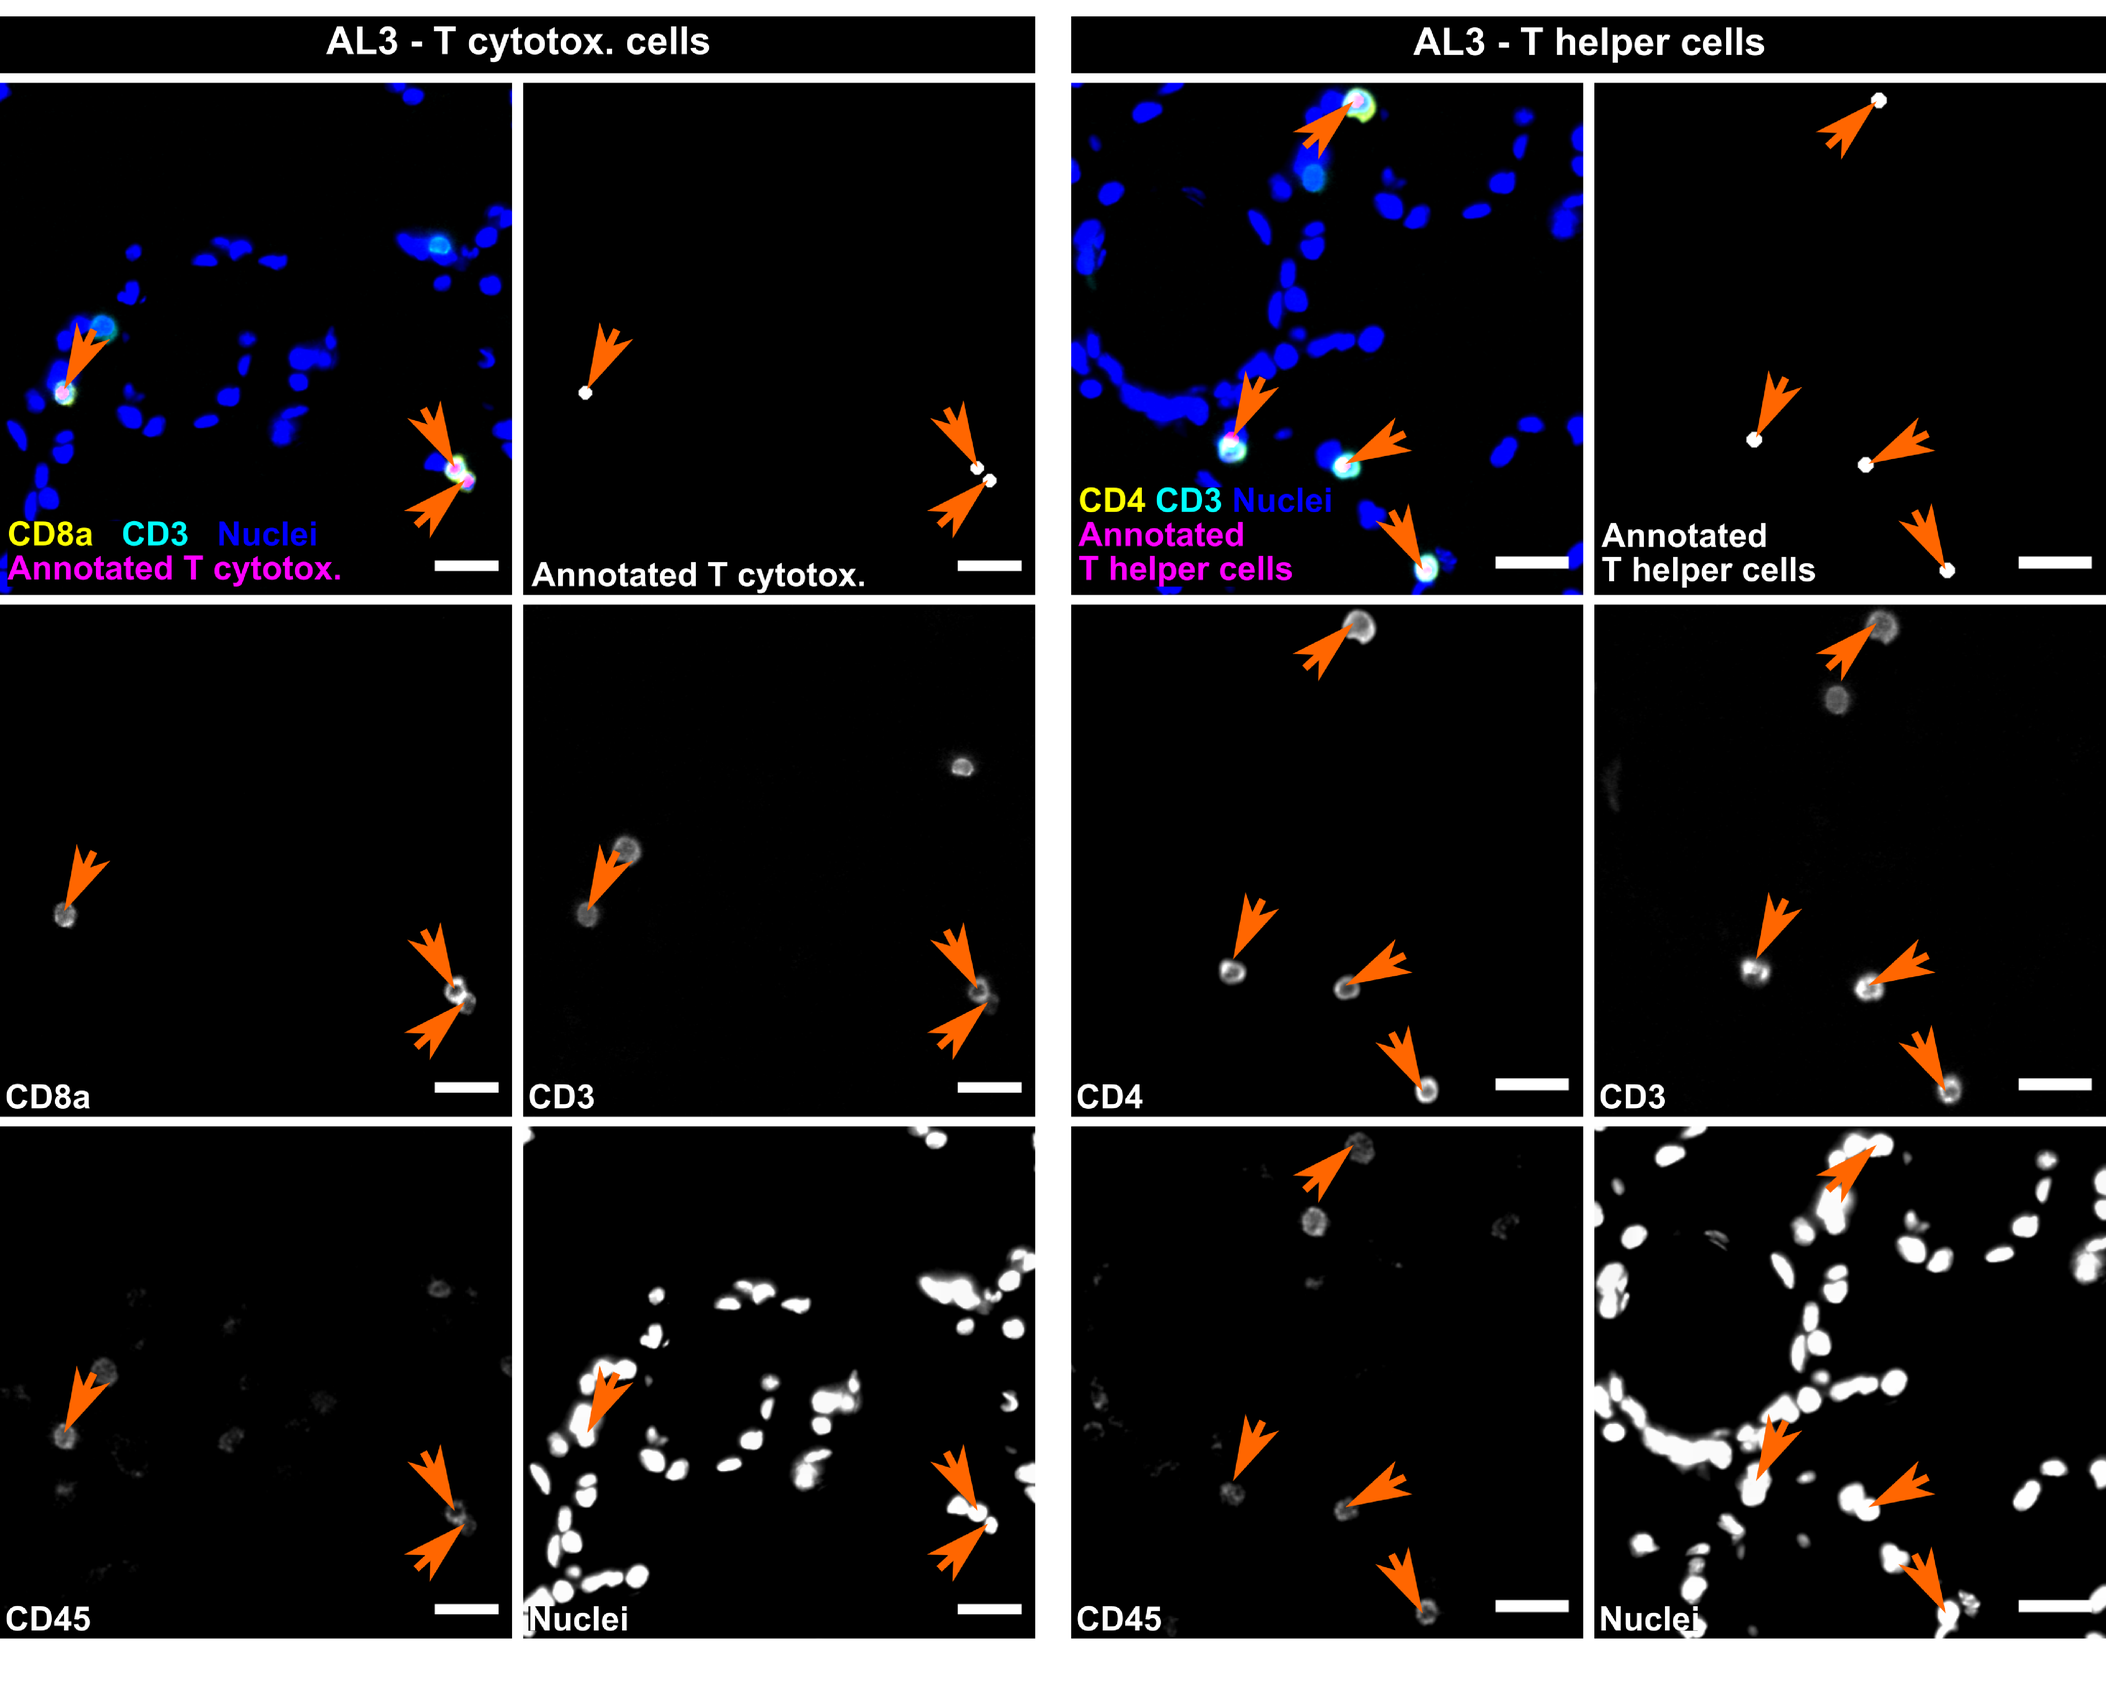
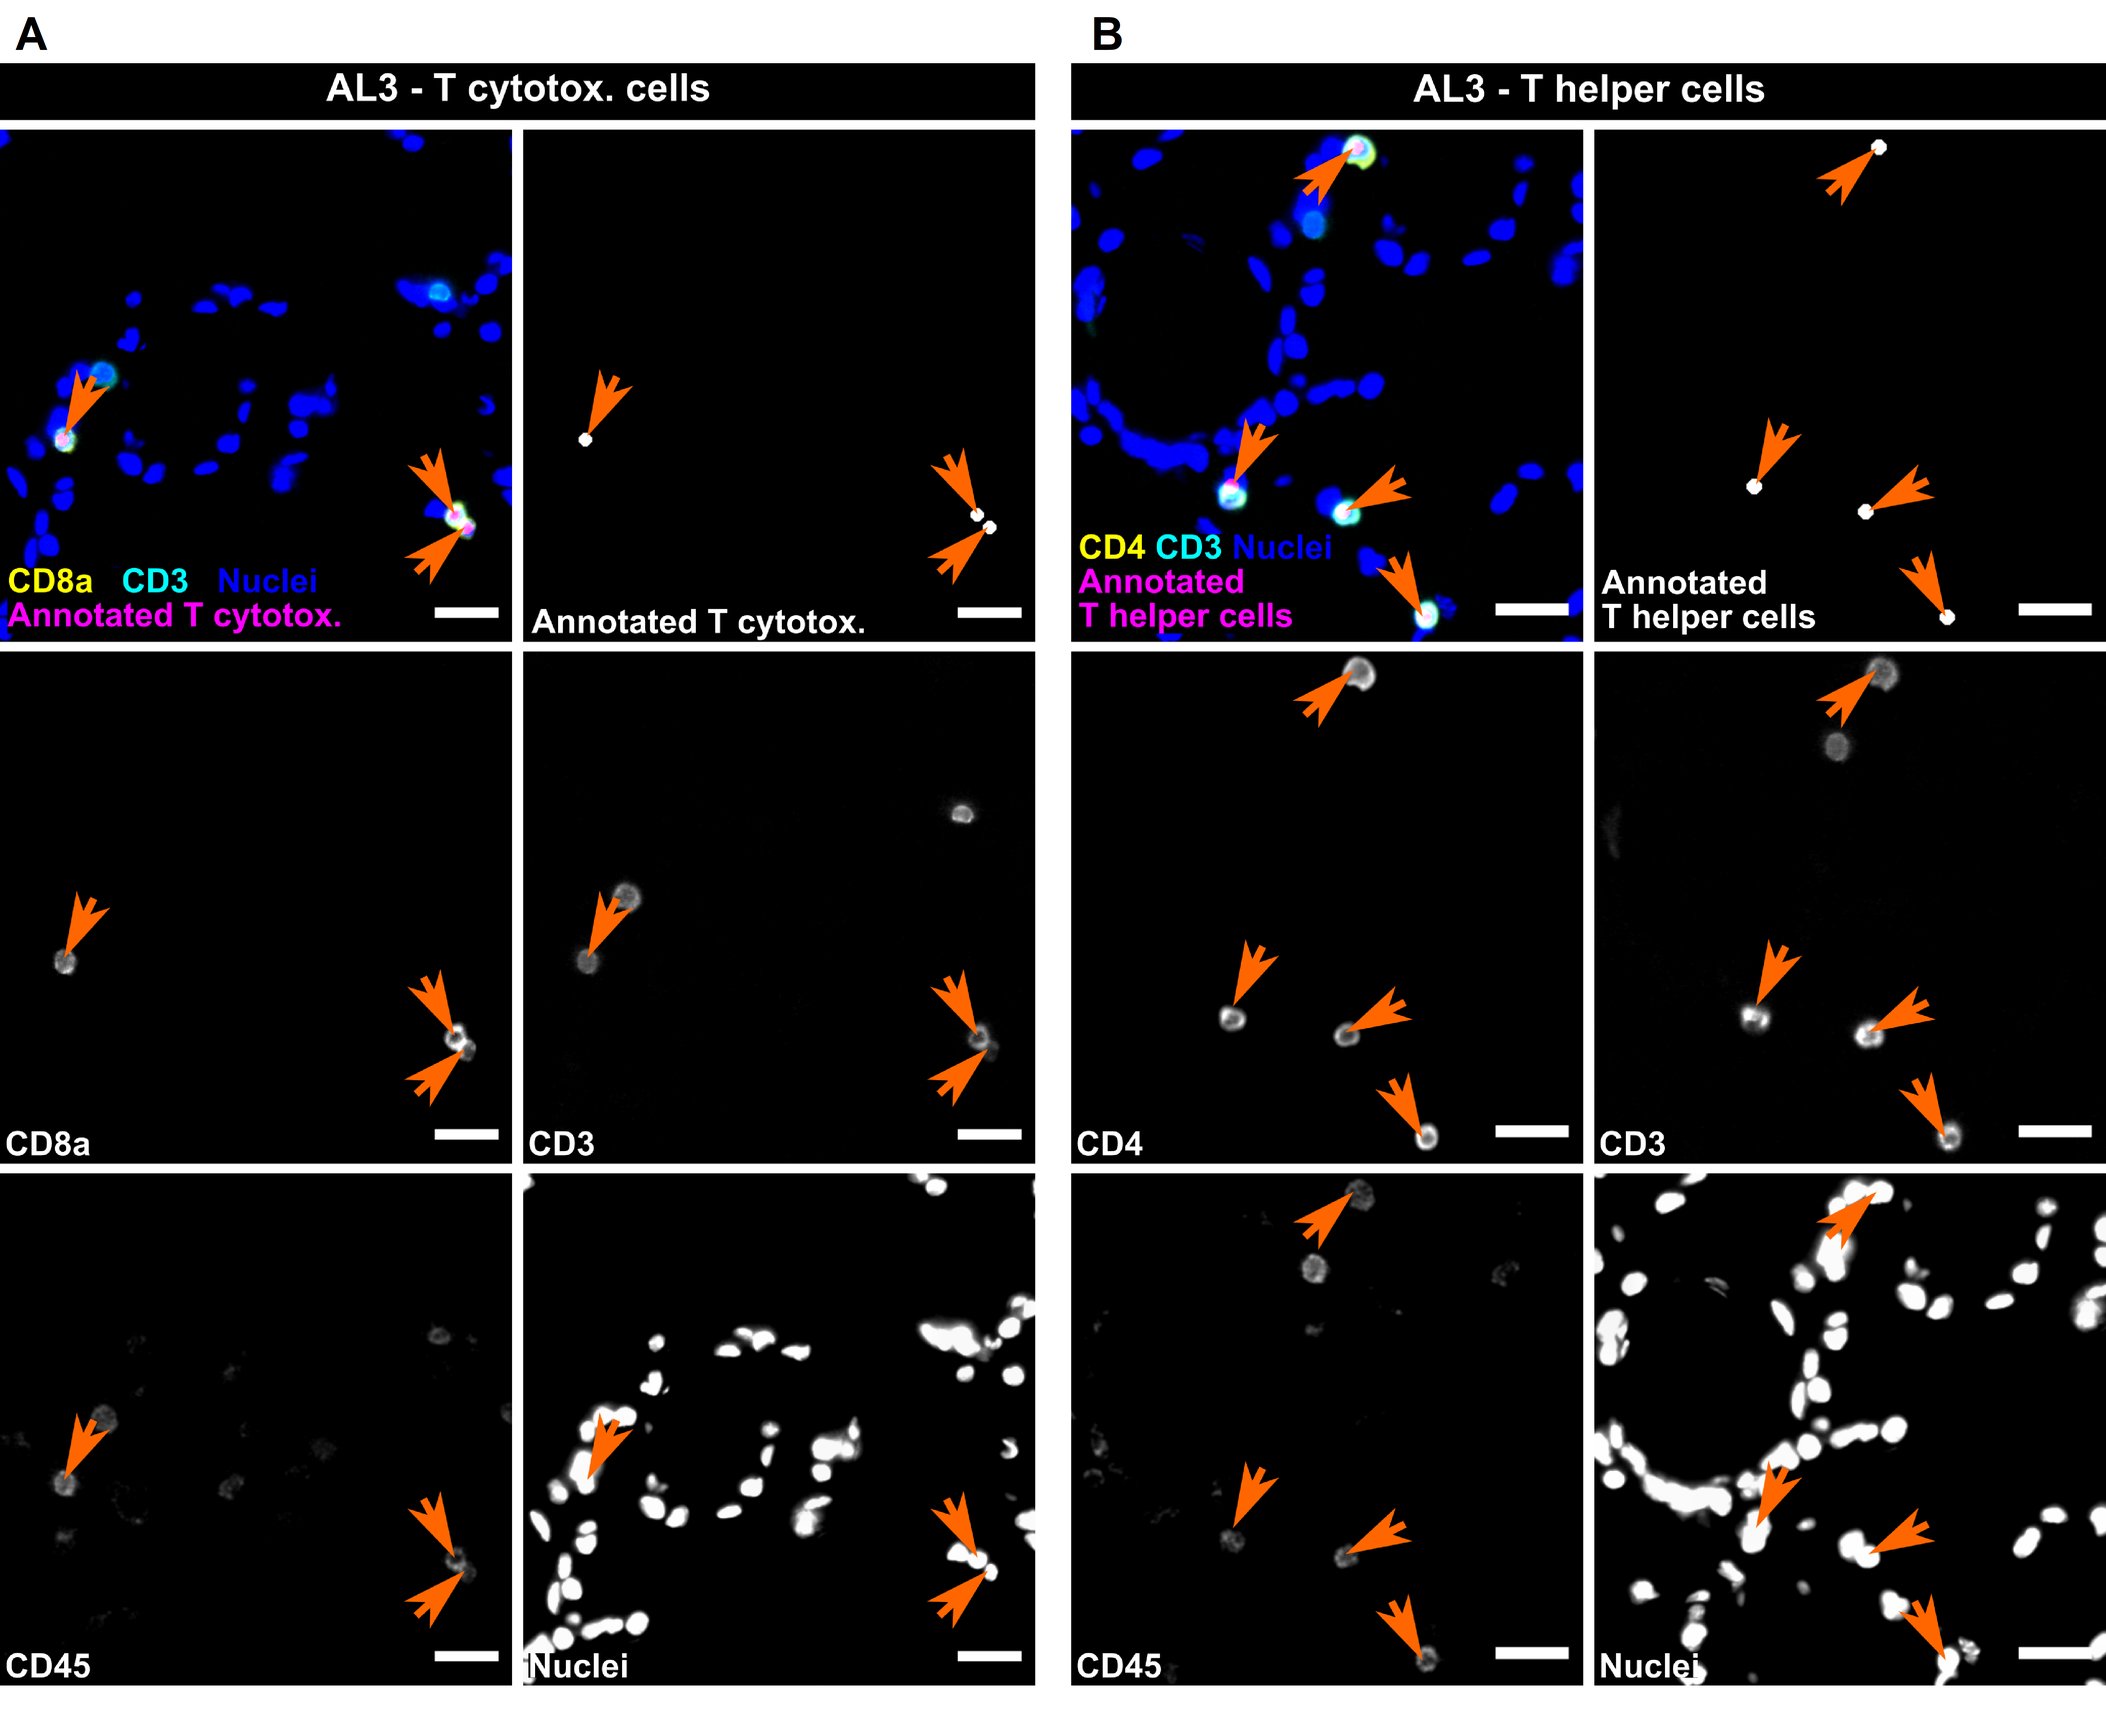
Improved images

diff --git a/2_visualizations_for_figures/Fig_4_ILCs_in_lung.md b/2_visualizations_for_figures/Fig_4_ILCs_in_lung.md
@@ -1,7 +1,7 @@
 ---
 title: "Figure 4: Immune cells, ILCs and ILC subtypes in lung"
 author: "Sandy Kroh"
-date: "April 24, 2026"
+date: "April 27, 2026"
 output:
   html_document:
     toc: yes
@@ -539,8 +539,9 @@ ggarrange(img_plot_nkilc1, img_plot_ilc3s, ncol = 1, nrow = 2, heights = c(8.6, 
 
 
 ``` r
-# Display the plot
-print(img_plot_tcells)
+empty <- ggarrange("NONE", "NONE", labels = "AUTO", widths = c(10, 9.6))
+ggarrange(empty, img_plot_tcells, ncol = 1, nrow = 2, 
+                     heights = c(0.2, 7.2))
 ```
 
 <img src="Fig_4_ILCs_in_lung_files/figure-html/unnamed-chunk-19-1.png" alt="" width="100%" style="display: block; margin: auto;" />
